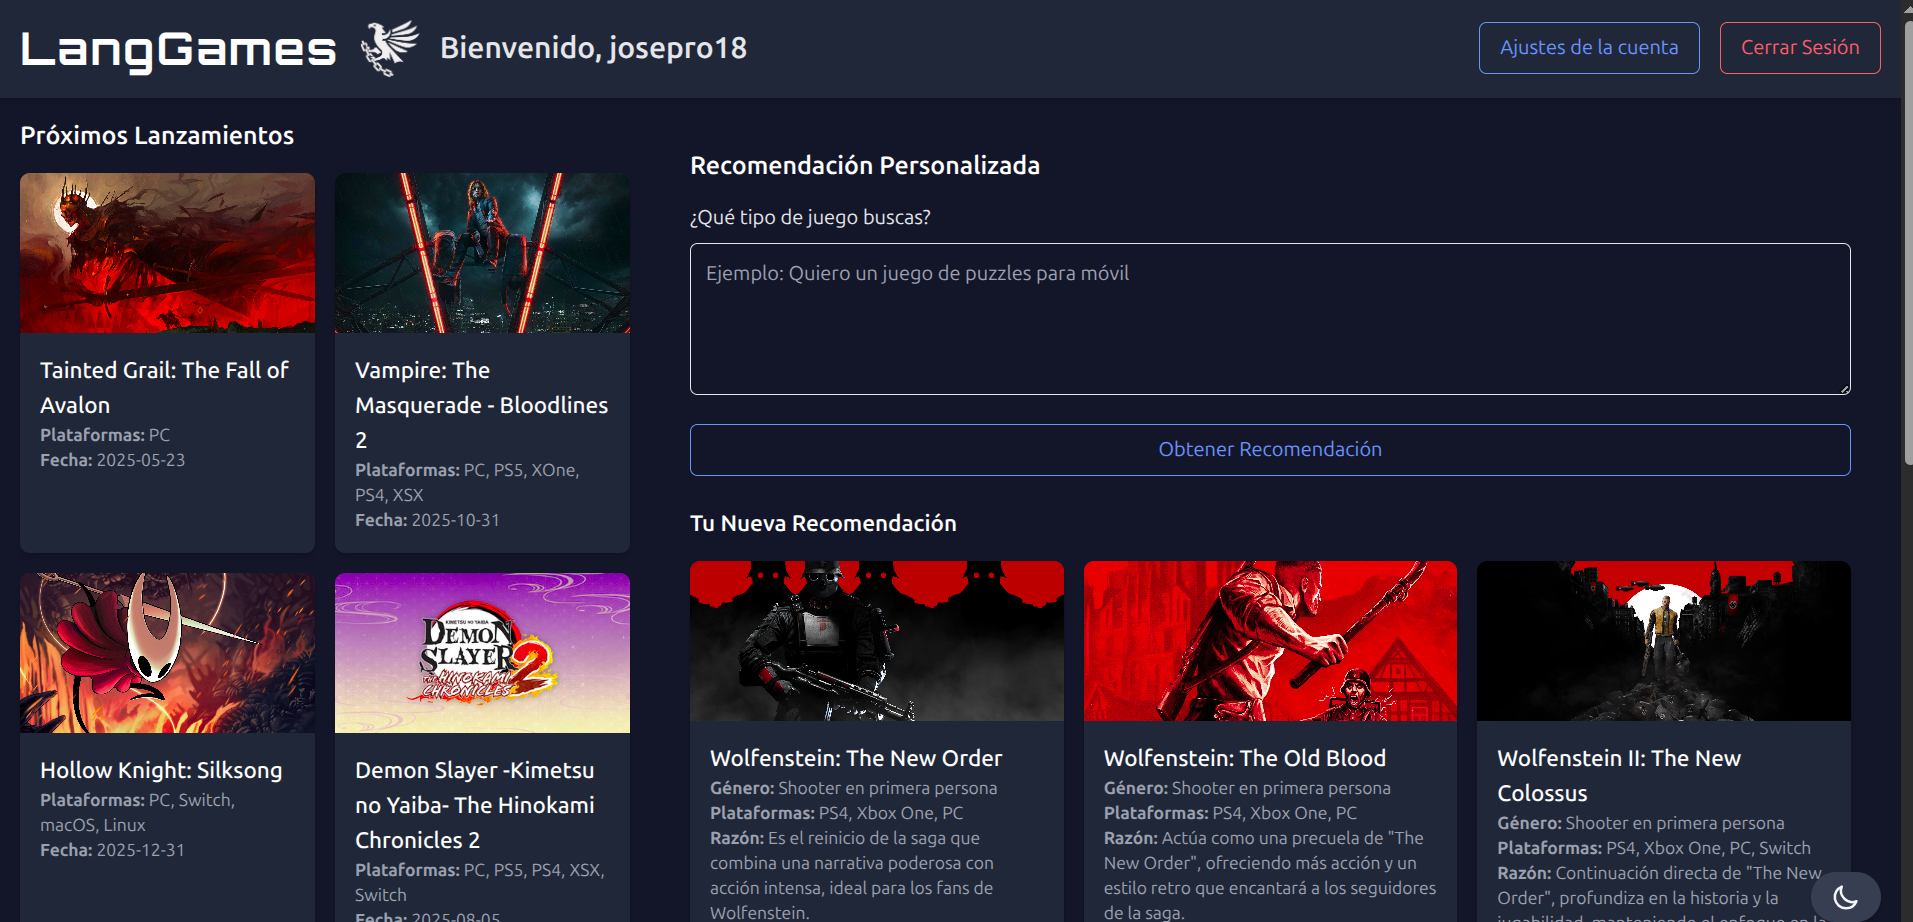
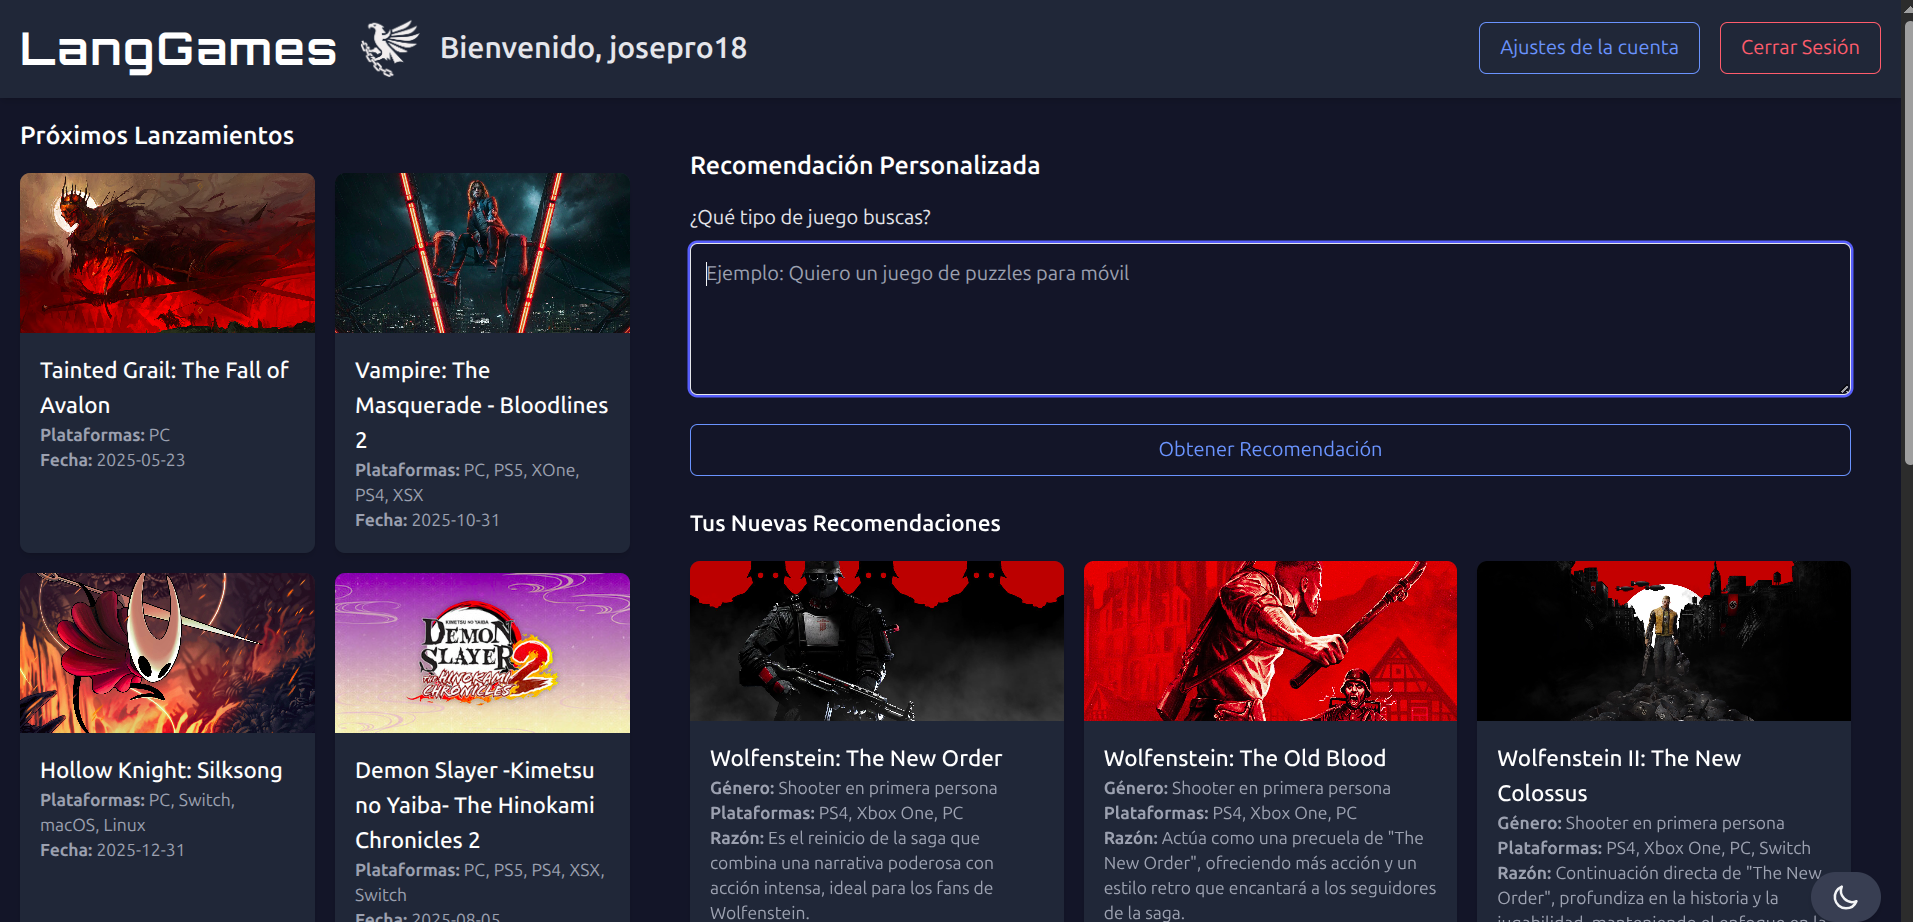
Pequeño cambio en texto mostrado en frontend

diff --git a/frontend/angular/src/app/components/principal/principal.component.html b/frontend/angular/src/app/components/principal/principal.component.html
@@ -116,7 +116,7 @@
 
       <!-- Nueva Recomendación -->
       <div class="mt-6" *ngIf="nuevaRecomendacion.length > 0">
-        <h3 class="text-lg font-semibold mb-4 text-gray-900 dark:text-white">Tu Nueva Recomendación</h3>
+        <h3 class="text-lg font-semibold mb-4 text-gray-900 dark:text-white">Tus Nuevas Recomendaciones</h3>
         <div class="grid grid-cols-1 sm:grid-cols-2 lg:grid-cols-3 gap-4">
           <div *ngFor="let juego of nuevaRecomendacion" class="bg-white dark:bg-gray-800 rounded-lg shadow-md overflow-hidden">
             <img [src]="juego.imagen" [alt]="juego.nombre" class="w-full h-32 object-cover">
